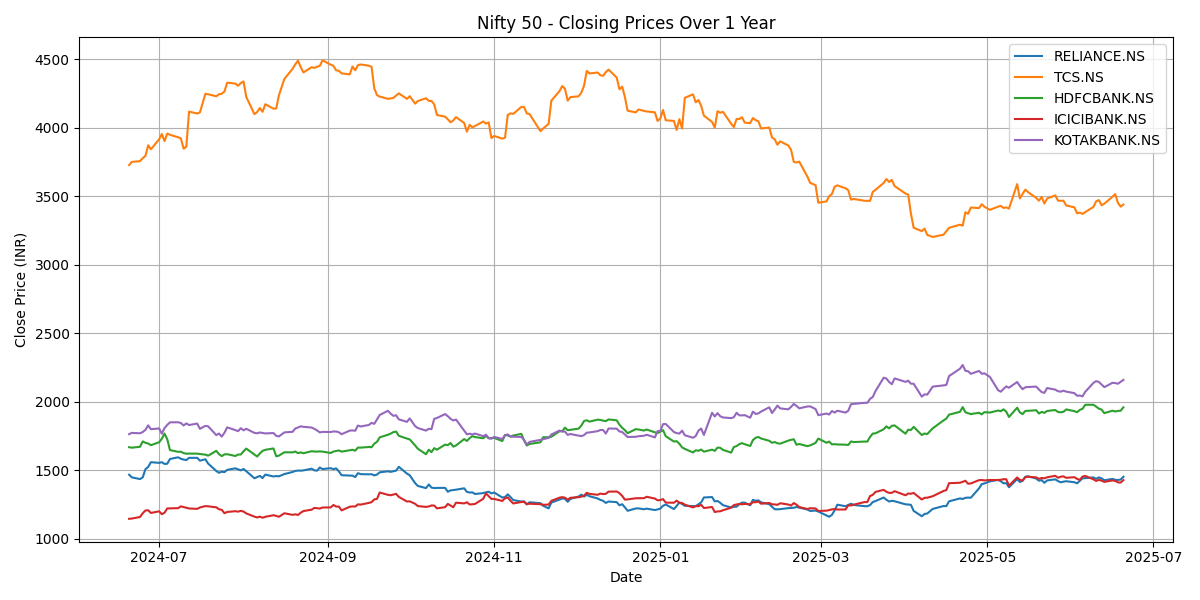
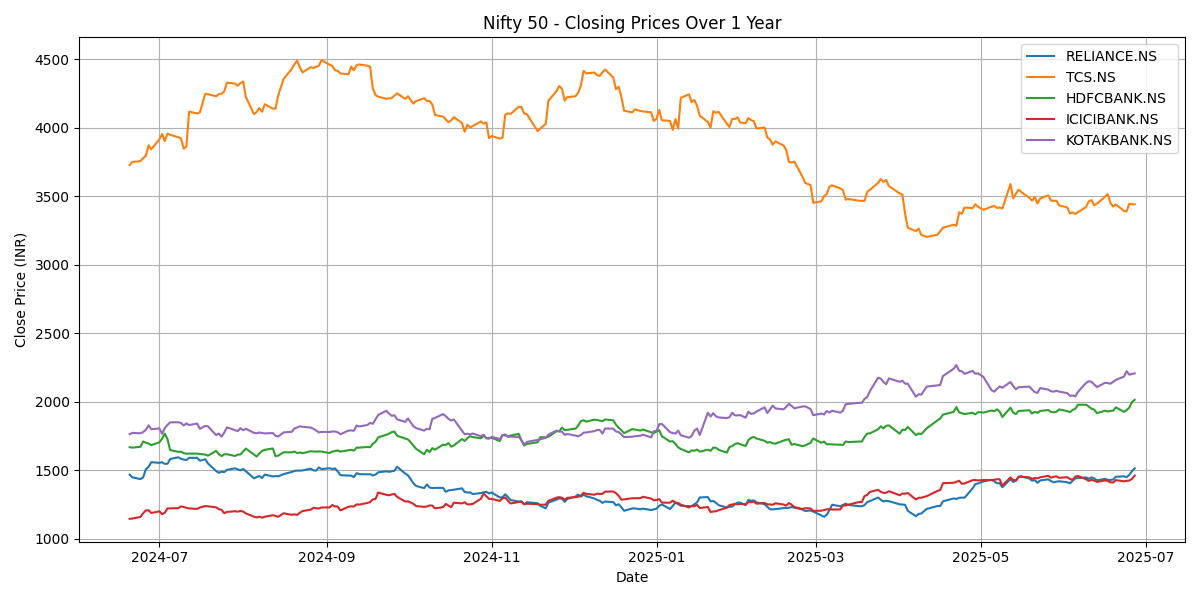
New changes to update

diff --git a/Agent_Kit/nifty_agent/tools/update_nifty50_data.py b/Agent_Kit/nifty_agent/tools/update_nifty50_data.py
@@ -8,45 +8,57 @@ from nifty_agent.constants import nifty50_tickers
 def update_nifty50_data(tickers: List[str] = []) -> str:
     json_file = "nifty_agent/data/nifty_data.json"
 
-    tickers = nifty50_tickers  # Always use fixed tickers
+    # Always use fixed Nifty 50 tickers
+    tickers = nifty50_tickers
+    tickers_str = " ".join(tickers)
 
+    # Load existing data if available
     if os.path.exists(json_file):
         with open(json_file, "r") as f:
             json_data = json.load(f)
     else:
         json_data = {}
 
+    # Ensure all tickers have an initialized list
     for ticker in tickers:
         if ticker not in json_data:
             json_data[ticker] = []
 
+    # Get existing dates per ticker to avoid duplicates
     existing_dates = {
         ticker: {entry["Date"] for entry in json_data[ticker]}
         for ticker in tickers
     }
 
-    data = yf.download(" ".join(tickers), period="1y", group_by="ticker", interval="1d")
+    # Download 1 year of data for all tickers
+    data = yf.download(tickers_str, period="1y", interval="1d", group_by="ticker", auto_adjust=True)
+
     updated_tickers = []
 
     for ticker in tickers:
+        # Handle single-ticker case
         if len(tickers) == 1 and not isinstance(data.columns, pd.MultiIndex):
             df = data.copy()
-        elif ticker in data.columns.levels[0]:
+        elif isinstance(data.columns, pd.MultiIndex) and ticker in data.columns.get_level_values(0):
             df = data[ticker].copy()
         else:
-            continue
+            continue  # Skip if no data
 
-        df.reset_index(inplace=True)
+        df = df.reset_index()
         df["Date"] = df["Date"].dt.strftime("%Y-%m-%d")
+
+        # Keep only new rows not already in JSON
         new_rows = df[~df["Date"].isin(existing_dates[ticker])]
 
         if not new_rows.empty:
             json_data[ticker].extend(new_rows.to_dict(orient="records"))
             updated_tickers.append(ticker)
 
+    # Save updated JSON
     with open(json_file, "w") as f:
         json.dump(json_data, f, indent=4)
 
     if updated_tickers:
-        return f"✅ Updated data for: {', '.join(updated_tickers)}"
-    return "✅ All tickers were already up to date."
+        return f"✅ Appended new data for: {', '.join(updated_tickers)}"
+    else:
+        return "✅ All tickers were already up to date."
